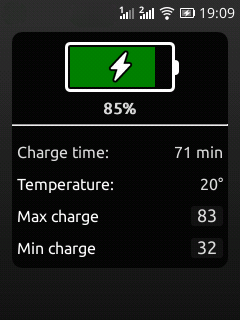
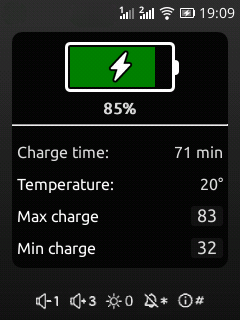
Maybe not the right version (view more below) Idk if this is the v1.4.1.1 in the release (and kaistore soon) but changelog: Changed translations: Added translations: pl, sw, ur. Added translations credits Bug fix (arrows when RTL and mode change)
screenshots update

diff --git a/translation/translate.js b/translation/translate.js
@@ -1,1 +1,38 @@
-const supportedLanguages=["ar","de","en","es","fr","it","ru","zh-HK","zh-CN"];let translations={};const userLanguage=navigator.language||navigator.userLanguage;let languageCode=userLanguage.split("-")[0];userLanguage.includes("zh")&&(languageCode=userLanguage.includes("TW")?"zh-HK":userLanguage);const loadLanguageFile=a=>new Promise((e,t)=>{let s=new XMLHttpRequest;s.open("GET",`/translation/${a}.json`,!0),s.onreadystatechange=()=>{if(4===s.readyState){if(200===s.status)try{translations=JSON.parse(s.responseText);let r="ar"===a,n=r?`/assets/image/arrowLeft_${localStorage.mode}.png`:`/assets/image/arrowRight_${localStorage.mode}.png`,g=r?`/assets/image/arrowRight_${localStorage.mode}.png`:`/assets/image/arrowLeft_${localStorage.mode}.png`;document.body.classList.toggle("rtl",r),[...arrowRights].forEach(a=>{a.src=n,a.classList.toggle("arrowLeft",r),a.classList.toggle("arrowRight",!r)}),[...arrowLefts].forEach(a=>{a.src=g,a.classList.toggle("arrowLeft",!r),a.classList.toggle("arrowRight",r)}),e()}catch(l){t(`Error parsing language file: ${l}`)}else t(`Error loading language file: ${s.statusText}`)}},s.send()}),translate=a=>translations[a]||a,updateUIWithTranslations=()=>{Array.from(document.querySelectorAll("[data-translate]")).forEach(a=>{let e=a.getAttribute("data-translate");e.includes("explanation")?a.dataset.explanation=translate(e):a.innerText=translate(e)}),batteryStats()},isLanguageSupported=a=>supportedLanguages.includes(a),loadAndTranslate=a=>{isLanguageSupported(a)?loadLanguageFile(a).then(updateUIWithTranslations).catch(a=>console.error(a)):console.error(`Unsupported language: ${a}`)};loadAndTranslate(languageCode);
+const supportedLanguages = ["ar", "de", "en", "es", "fr", "it", "pl", "ru", "sw", "ur", "zh-HK", "zh-CN"];
+let translations = {};
+const userLanguage = navigator.language || navigator.userLanguage;
+let languageCode = userLanguage.split("-")[0];
+userLanguage.includes("zh") && (languageCode = userLanguage.includes("TW") ? "zh-HK" : userLanguage);
+const loadLanguageFile = a => new Promise((e, t) => {
+    let s = new XMLHttpRequest;
+    s.open("GET", `/translation/${a}.json`, !0), s.onreadystatechange = () => {
+        if (4 === s.readyState) {
+            if (200 === s.status) try {
+                translations = JSON.parse(s.responseText);
+                let r = "ar" === a || "ur" === a,
+                    n = r ? `/assets/image/arrowLeft_${document.body.classList.contains('light') ? 'light' : 'dark'}.png` : `/assets/image/arrowRight_${document.body.classList.contains('light') ? 'light' : 'dark'}.png`,
+                    g = r ? `/assets/image/arrowRight_${document.body.classList.contains('light') ? 'light' : 'dark'}.png` : `/assets/image/arrowLeft_${document.body.classList.contains('light') ? 'light' : 'dark'}.png`;
+                keystrokes.src = `/assets/image/keystrokes${r ? '_ar' : ''}_${silent}_${document.body.classList.contains('light') ? 'light' : 'dark'}.png`;
+                document.body.classList.toggle("rtl", r), [...arrowRights].forEach(a => {
+                    a.src = n, a.classList.toggle("arrowLeft", r), a.classList.toggle("arrowRight", !r)
+                }), [...arrowLefts].forEach(a => {
+                    a.src = g, a.classList.toggle("arrowLeft", !r), a.classList.toggle("arrowRight", r)
+                }), e()
+            } catch (l) {
+                t(`Error parsing language file: ${l} `)
+            } else t(`Error loading language file: ${s.statusText} `)
+        }
+    }, s.send()
+}),
+    translate = a => translations[a] || a,
+    updateUIWithTranslations = () => {
+        Array.from(document.querySelectorAll("[data-translate]")).forEach(a => {
+            let e = a.getAttribute("data-translate");
+            e.includes("explanation") ? a.dataset.explanation = translate(e) : a.innerText = translate(e)
+        }), batteryStats()
+    },
+    isLanguageSupported = a => supportedLanguages.includes(a),
+    loadAndTranslate = a => {
+        isLanguageSupported(a) ? loadLanguageFile(a).then(updateUIWithTranslations).catch(a => console.error(a)) : console.error(`Unsupported language: ${a} `)
+    };
+loadAndTranslate(languageCode);

diff --git a/about.html b/about.html
@@ -1,1 +1,40 @@
-<!DOCTYPE html><html lang="en"><head><title>About</title></head><body data-translate="html"><h1>About</h1><h2>Battery Manager v1.4.2</h2><p>Battery insights and custom alerts.</p><h2>What does the app do?</h2><p>KaiOS Battery Manager is your go-to solution for efficient battery management on your KaiOS smartphone. Keep track of vital battery stats like discharge and charge times, temperature, and real-time level changes. Set personalized alerts for specific battery levels, both high and low, to ensure you never run out of power when you need it most. Download KaiOS Battery Manager now and take charge of your device's battery life for a worry-free mobile experience</p><h2>Keystrokes:</h2><p>1 - Volume down</p><p>3 - Volume up</p><p>0 - Toggle Light mode</p><p>* - Toggle silent alarm (only notification)</p><p># - Show this page</p><h2>License</h2><p>This code stands under the GNU General Public License v3.0</p><p>View code<a href="https://github.com/W4IT-Dev/Battery-manager">here</a></p><h2>Credits</h2>Icon found on<a href="https://www.vecteezy.com/png/9394734-battery-charge-png-transparent">vecteezy</a><br><p>If you found any issues within this app, you can contact me per<a href="mailto:w4it.dev.business@gmail.com?Subject=Battery%20Manager%20v1.4.2%20Issue%20report">email</a></p></body></html>
+<!DOCTYPE html>
+<html lang="en">
+
+<head>
+    <title>About</title>
+</head>
+
+<body data-translate="html">
+    <h1>About</h1>
+    <h2>Battery Manager v1.4.2</h2>
+    <p>Battery insights and custom alerts.</p>
+    <h2>What does the app do?</h2>
+    <p>KaiOS Battery Manager is your go-to solution for efficient battery management on your KaiOS smartphone. Keep
+        track of vital battery stats like discharge and charge times, temperature, and real-time level changes. Set
+        personalized alerts for specific battery levels, both high and low, to ensure you never run out of power when
+        you need it most. Download KaiOS Battery Manager now and take charge of your device's battery life for a
+        worry-free mobile experience</p>
+    <h2>Keystrokes:</h2>
+    <p>1 - Volume down</p>
+    <p>3 - Volume up</p>
+    <p>0 - Toggle Light mode</p>
+    <p>* - Toggle silent alarm (only notification)</p>
+    <p># - Show this page</p>
+    <h2>License</h2>
+    <p>This code stands under the GNU General Public License v3.0</p>
+    <p>View code <a href="https://github.com/W4IT-Dev/Battery-Manager">here</a></p>
+    <h2>Credits</h2>
+    Icon found on <a href="https://www.vecteezy.com/png/9394734-battery-charge-png-transparent">vecteezy</a>
+    <h3>Translators:</h3>
+    <p>Arabic: Mykle</p>
+    <p>French: swye</p>
+    <p>Polish: nuclear</p>
+    <p>Urdu: san</p>
+    <h2>Contact</h2>
+    <h3>If you found any issues within this app, you can contact me per <a
+            href="mailto:w4it.dev.business@gmail.com?Subject=Battery%20Manager%20v1.4.2%20Issue%20report">email</a>
+    </h3>
+</body>
+
+</html>

diff --git a/scripts/script.js b/scripts/script.js
@@ -116,16 +116,17 @@ document.addEventListener('visibilitychange', () => {
 });
 
 function setMode() {
+  let rtl = document.body.classList.contains('rtl')
   if (!localStorage.mode) localStorage.mode = "dark"
   // document.body.classList.toggle('light', localStorage.mode === "light");
   localStorage.mode === "light" ? document.body.classList.add('light') : document.body.classList.remove('light');
-  keystrokes.src = `/assets/image/keystrokes${languageCode === "ar" ? '_ar' : ''}_${silent}_${localStorage.mode}.png`;
+  keystrokes.src = `/assets/image/keystrokes${rtl ? '_ar' : ''}_${silent}_${localStorage.mode}.png`;
   document.querySelector('meta[name="theme-color"]').setAttribute('content', localStorage.mode === "dark" ? 'rgb(45, 45, 45)' : 'rgb(235, 235, 235)');
   [...arrowRights].forEach(element => {
-    element.src = `/assets/image/arrowRight_${document.body.classList.contains('light') ? "light": "dark"}.png`;
+    element.src = `/assets/image/${rtl ? 'arrowLeft' : 'arrowRight'}_${document.body.classList.contains('light') ? "light" : "dark"}.png`;
   });
   [...arrowLefts].forEach(element => {
-    element.src = `/assets/image/arrowLeft_${document.body.classList.contains('light') ? "light": "dark"}.png`;
+    element.src = `/assets/image/${rtl ? 'arrowRight' : 'arrowLeft'}_${document.body.classList.contains('light') ? "light" : "dark"}.png`;
   });
 }
 
